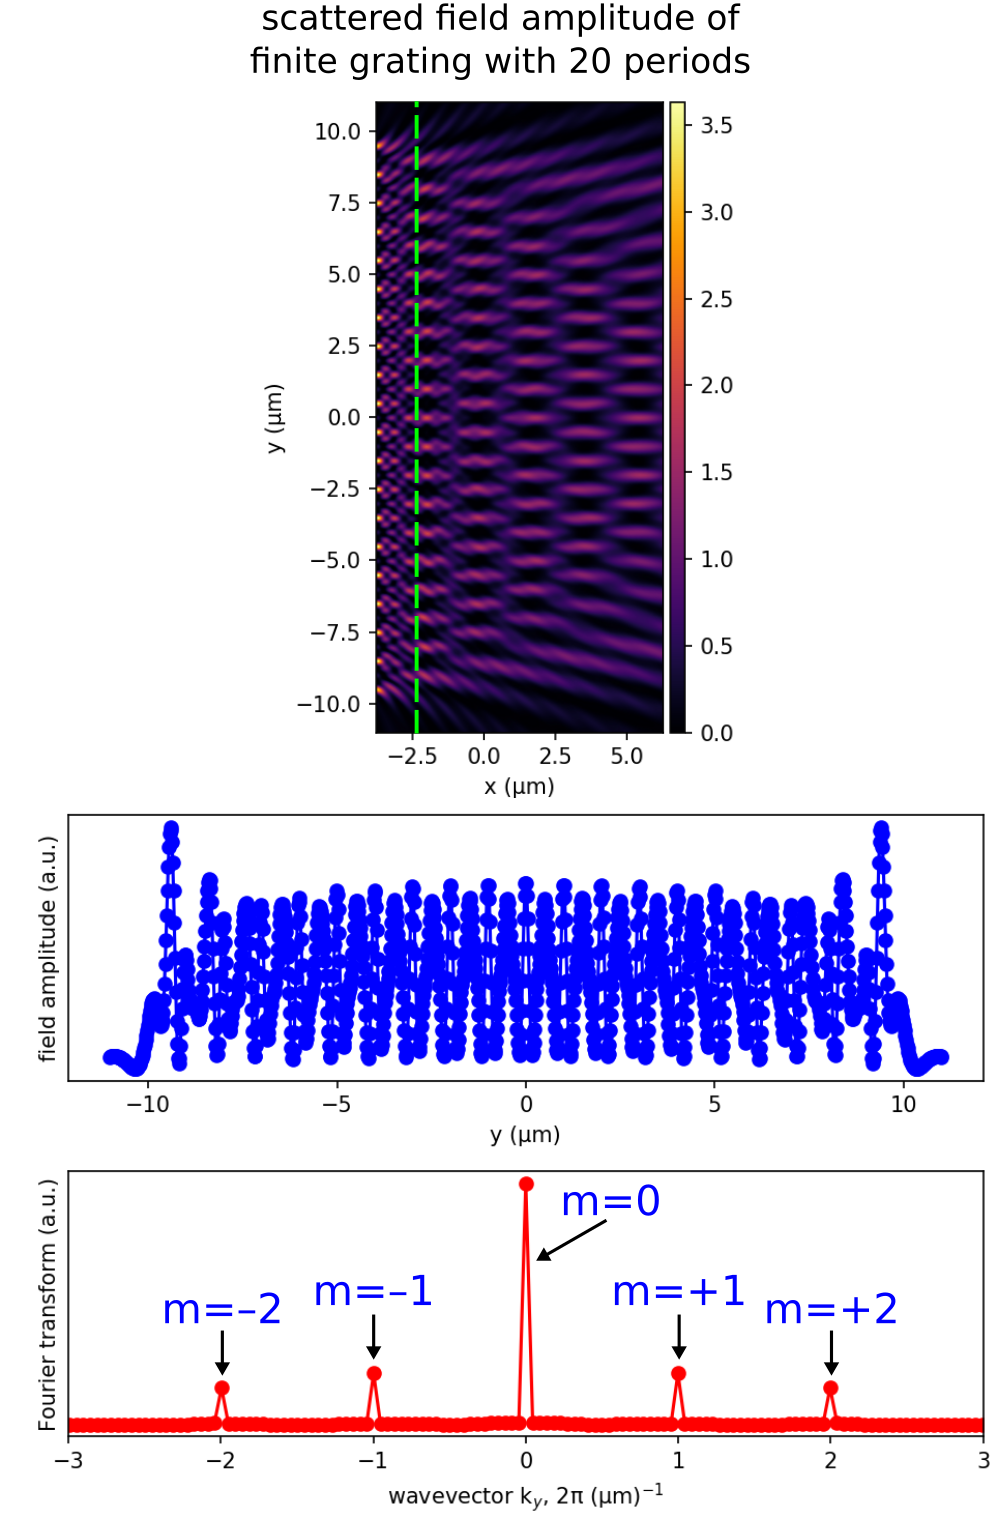
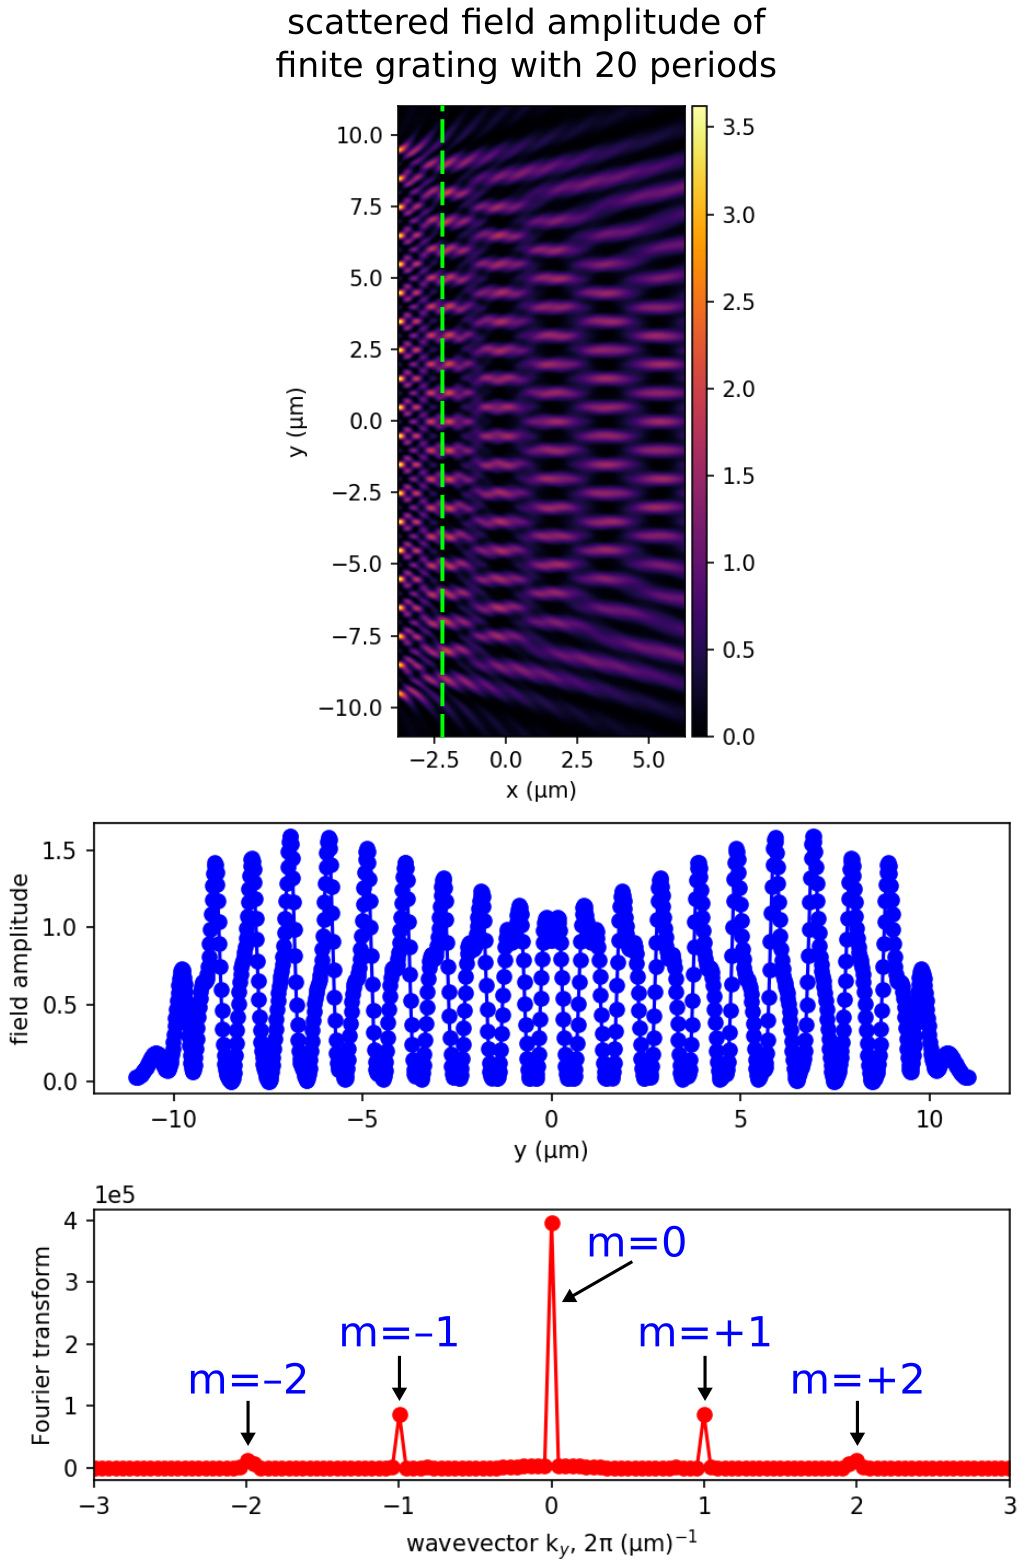
document 2πr factor in cylindrical integrals

Changed region(s): [[0.0, 0.0, 0.992, 1.0], [0.248, 0.2475, 0.31, 0.3094]]

diff --git a/python/examples/finite_grating.py b/python/examples/finite_grating.py
@@ -110,15 +110,14 @@ else:
 
     plt.subplot(2,1,1)
     plt.plot(y,scattered_amplitude,'bo-')
-    plt.gca().get_yaxis().set_ticks([])
     plt.xlabel("y (μm)")
-    plt.ylabel("field amplitude (a.u.)")
+    plt.ylabel("field amplitude")
 
     plt.subplot(2,1,2)
     plt.plot(ky,np.abs(FT_scattered_field)**2,'ro-')
-    plt.gca().get_yaxis().set_ticks([])
+    plt.gca().ticklabel_format(axis='y',style='sci',scilimits=(0,0))
     plt.xlabel(r'wavevector k$_y$, 2π (μm)$^{-1}$')
-    plt.ylabel("Fourier transform (a.u.)")
+    plt.ylabel("Fourier transform")
     plt.gca().set_xlim([-3, 3])
 
     plt.tight_layout(pad=1.0)

diff --git a/doc/docs/Scheme_Tutorials/Near_to_Far_Field_Spectra.md b/doc/docs/Scheme_Tutorials/Near_to_Far_Field_Spectra.md
@@ -592,7 +592,7 @@ For a single process, the far-field calculation in both runs takes roughly the s
 
 Finally, we can validate the results for the diffraction spectra of a finite grating via a different approach than computing the far fields: as the (spatial) Fourier transform of the scattered fields. This involves two simulations &mdash; one with the grating and the other with just a flat surface &mdash; and subtracting the Fourier-transformed fields at a given frequency ω from the two runs to obtain the scattered fields s(y). The Fourier transform of the scattered fields is then computed in post processing: a(k<sub>y</sub>) = ∫ s(y) exp(ik<sub>y</sub>y) dy, where |a(k<sub>y</sub>)|² is the amplitude of the corresponding Fourier component. For a grating with periodicity Λ, we should expect to see peaks in the diffraction spectra at k<sub>y</sub>=2πm/Λ for m=0, ±1, ±2, ... The total number of diffraction orders is determined by the wavelength as described in [Tutorials/Mode Decomposition/Transmittance Spectra for Planewave at Normal Incidence](Mode_Decomposition.md#transmittance-spectra-for-planewave-at-normal-incidence).
 
-The simulation setup is shown in the schematic below. The binary grating has Λ = 1 μm at a wavelength of 0.5 μm via a normally-incident planewave pulse (which must extend into the PML region). The grating structure is terminated with a flat-surface padding in order to give the scattered field space to decay at the edge of the cell.
+The simulation setup is shown in the schematic below. The binary grating has Λ = 1 μm at a wavelength of 0.5 μm via a normally-incident planewave pulse (which must [extend into the PML region in order to span the entire width of the cell](../Perfectly_Matched_Layer.md#planewave-sources-extending-into-pml)). The grating structure is terminated with a flat-surface padding in order to give the scattered field space to decay at the edge of the cell.
 
 <center>
 ![](../images/finite_grating_schematic.png)
@@ -634,11 +634,12 @@ The simulation script is in [examples/finite_grating.ctl](https://github.com/Nan
 (set! geometry-lattice (make lattice (size sx sy no-size)))
 
 (define src-pt (vector3 (+ (* -0.5 sx) dpml (* 0.5 dsub))))
-(set! sources (list (make source
-          (src (make gaussian-src (frequency fcen) (fwidth (* 0.2 fcen)) (is-integrated? true)))
-          (component Ez)
-          (center src-pt)
-          (size 0 sy))))
+(define pw-source (list (make source
+                          (src (make gaussian-src (frequency fcen) (fwidth (* 0.2 fcen)) (is-integrated? true)))
+                          (component Ez)
+                          (center src-pt)
+                          (size 0 sy))))
+(set! sources pw-source)
 
 (set! geometry (list (make block
                        (material glass)
@@ -662,11 +663,7 @@ The simulation script is in [examples/finite_grating.ctl](https://github.com/Nan
 
 (set! k-point (vector3 0))
 
-(set! sources (list (make source
-          (src (make gaussian-src (frequency fcen) (fwidth (* 0.2 fcen))))
-          (component Ez)
-          (center src-pt)
-          (size 0 (- sy (* 2 dpml))))))
+(set! sources pw-source)
 
 (set! geometry (list (make block
                        (material glass)
@@ -688,7 +685,7 @@ The simulation script is in [examples/finite_grating.ctl](https://github.com/Nan
 (output-dft grating-fields "grating")
 ```
 
-Results from the two HDF5 files are plotted using Matlab/Octave and shown for a finite grating with 5 and 20 periods.
+Results from the two HDF5 files are plotted using Matlab/Octave and shown for two finite gratings with 5 and 20 periods.
 
 ```matlab
 resolution = 50;
@@ -732,18 +729,16 @@ else
 
     subplot(2,1,1);
     plot(y,scattered_amplitude,'bo-');
-    axis("labelx");
     xlabel("y (um)");
-    ylabel("field amplitude (a.u.)");
+    ylabel("field amplitude");
 
     FT_scattered_amplitude = fftshift(fft(scattered_field));
     ky = [-Ny/2:(Ny/2-1)]*resolution/Ny;
     subplot(2,1,2);
     plot(ky,abs(FT_scattered_amplitude).^2,'ro-');
     axis([-3 3]);
-    axis("labelx");
     xlabel("wavevector k_y, 2π (um)^{-1}");
-    ylabel("Fourier transform (a.u.)");
+    ylabel("Fourier transform");
 endif
 ```
 

diff --git a/doc/docs/Python_User_Interface.md b/doc/docs/Python_User_Interface.md
@@ -1061,15 +1061,15 @@ Given a `direction` constant, and a `mp.Volume`, returns the flux (the integral 
 
 **`electric_energy_in_box(box=None, center=None, size=None)`**
 —
-Given a `mp.Volume`, returns the integral of the electric-field energy $\mathbf{E}^* \cdot \mathbf{D}/2$ in the given volume. If the volume has zero size along a dimension, a lower-dimensional integral is used. If the `center` and `size` arguments are provided instead of `box`, Meep will construct the appropriate volume for you.
+Given a `mp.Volume`, returns the integral of the electric-field energy $\mathbf{E}^* \cdot \mathbf{D}/2$ in the given volume. If the volume has zero size along a dimension, a lower-dimensional integral is used. If the `center` and `size` arguments are provided instead of `box`, Meep will construct the appropriate volume for you. Note: in [cylindrical coordinates](Cylindrical_Coordinates.md), the integral is multiplied by 2π$r$ where $r$ is the size of the cell in the radial direction.
 
 **`magnetic_energy_in_box(box=None, center=None, size=None)`**
 —
-Given a `mp.Volume`, returns the integral of the magnetic-field energy $\mathbf{H}^* \cdot \mathbf{B}/2$ in the given volume. If the volume has zero size along a dimension, a lower-dimensional integral is used. If the `center` and `size` arguments are provided instead of `box`, Meep will construct the appropriate volume for you.
+Given a `mp.Volume`, returns the integral of the magnetic-field energy $\mathbf{H}^* \cdot \mathbf{B}/2$ in the given volume. If the volume has zero size along a dimension, a lower-dimensional integral is used. If the `center` and `size` arguments are provided instead of `box`, Meep will construct the appropriate volume for you. Note: in [cylindrical coordinates](Cylindrical_Coordinates.md), the integral is multiplied by 2π$r$ where $r$ is the size of the cell in the radial direction.
 
 **`field_energy_in_box(box=None, center=None, size=None)`**
 —
-Given a `mp.Volume`, returns the integral of the electric- and magnetic-field energy $\mathbf{E}^* \cdot \mathbf{D}/2 + \mathbf{H}^* \cdot \mathbf{B}/2$ in the given volume. If the volume has zero size along a dimension, a lower-dimensional integral is used. If the `center` and `size` arguments are provided instead of `box`, Meep will construct the appropriate volume for you.
+Given a `mp.Volume`, returns the integral of the electric- and magnetic-field energy $\mathbf{E}^* \cdot \mathbf{D}/2 + \mathbf{H}^* \cdot \mathbf{B}/2$ in the given volume. If the volume has zero size along a dimension, a lower-dimensional integral is used. If the `center` and `size` arguments are provided instead of `box`, Meep will construct the appropriate volume for you. Note: in [cylindrical coordinates](Cylindrical_Coordinates.md), the integral is multiplied by 2π$r$ where $r$ is the size of the cell in the radial direction.
 
 **`modal_volume_in_box(box=None, center=None, size=None)`**
 —
@@ -1086,6 +1086,8 @@ One versatile feature is that you can supply an arbitrary function $f(\mathbf{x}
 Returns the integral of the complex-valued function `func` over the `Volume` specified by `where` (defaults to entire cell) for the `meep::fields` contained in the `Simulation` instance that calls this method. `func` is a function of position (a `Vector3`, its first argument) and zero or more field components specified by `cs`: a list of `component` constants. `func` can be real- or complex-valued. The volume can optionally be specified via the `center` and `size` arguments.
 
 If any dimension of `where` is zero, that dimension is not integrated over. In this way you can specify 1d, 2d, or 3d integrals.
+
+In [cylindrical coordinates](Cylindrical_Coordinates.md), the integral is multiplied by 2π$r$ where $r$ is the size of the cell in the radial direction.
 
 **`max_abs_field_function(cs, func, where=None, center=None, size=None)`**
 —

diff --git a/doc/docs/Scheme_User_Interface.md b/doc/docs/Scheme_User_Interface.md
@@ -878,15 +878,15 @@ Given a `direction` constant, and a `meep::volume*`, returns the flux (the integ
 
 **`(electric-energy-in-box box)`**
 —
-Given a `meep::volume*`, returns the integral of the electric-field energy $\mathbf{E}^* \cdot \mathbf{D}/2$ in the given volume. If the volume has zero size along a dimension, a lower-dimensional integral is used.
+Given a `meep::volume*`, returns the integral of the electric-field energy $\mathbf{E}^* \cdot \mathbf{D}/2$ in the given volume. If the volume has zero size along a dimension, a lower-dimensional integral is used. Note: in [cylindrical coordinates](Cylindrical_Coordinates.md), the integral is multiplied by 2π$r$ where $r$ is the size of the cell in the radial direction.
 
 **`(magnetic-energy-in-box box)`**
 —
-Given a `meep::volume*`, returns the integral of the magnetic-field energy $\mathbf{H}^* \cdot \mathbf{B}/2$ in the given volume. If the volume has zero size along a dimension, a lower-dimensional integral is used.
+Given a `meep::volume*`, returns the integral of the magnetic-field energy $\mathbf{H}^* \cdot \mathbf{B}/2$ in the given volume. If the volume has zero size along a dimension, a lower-dimensional integral is used. Note: in [cylindrical coordinates](Cylindrical_Coordinates.md), the integral is multiplied by 2π$r$ where $r$ is the size of the cell in the radial direction.
 
 **`(field-energy-in-box box)`**
 —
-Given a `meep::volume*`, returns the integral of the electric- and magnetic-field energy $\mathbf{E}^* \cdot \mathbf{D}/2 + \mathbf{H}^* \cdot \mathbf{B}/2$in the given volume. If the volume has zero size along a dimension, a lower-dimensional integral is used.
+Given a `meep::volume*`, returns the integral of the electric- and magnetic-field energy $\mathbf{E}^* \cdot \mathbf{D}/2 + \mathbf{H}^* \cdot \mathbf{B}/2$in the given volume. If the volume has zero size along a dimension, a lower-dimensional integral is used. Note: in [cylindrical coordinates](Cylindrical_Coordinates.md), the integral is multiplied by 2π$r$ where $r$ is the size of the cell in the radial direction.
 
 Note that if you are at a fixed frequency and you use complex fields (via Bloch-periodic boundary conditions or `fields-complex?=true`), then one half of the flux or energy integrals above corresponds to the time average of the flux or energy for a simulation with real fields.
 
@@ -899,6 +899,8 @@ One versatile feature is that you can supply an arbitrary function $f(\mathbf{x}
 Returns the integral of the complex-valued function `func` over the `meep::volume` specified by `where` (defaults to entire cell) for the `meep::fields` specified by `fields-var` (defaults to `fields`). `func` is a function of position (a `vector3`, its first argument) and zero or more field components specified by `cs`: a list of `component` constants. `func` can be real- or complex-valued.
 
 If any dimension of `where` is zero, that dimension is not integrated over. In this way you can specify 1d, 2d, or 3d integrals.
+
+In [cylindrical coordinates](Cylindrical_Coordinates.md), the integral is multiplied by 2π$r$ where $r$ is the size of the cell in the radial direction.
 
 **`(max-abs-field-function cs func [where] [fields-var])`**
 —

diff --git a/doc/docs/Python_Tutorials/Near_to_Far_Field_Spectra.md b/doc/docs/Python_Tutorials/Near_to_Far_Field_Spectra.md
@@ -539,7 +539,7 @@ For a single process, the far-field calculation in both runs takes roughly the s
 
 Finally, we can validate the results for the diffraction spectra of a finite grating via a different approach than computing the far fields: as the (spatial) Fourier transform of the scattered fields. This involves two simulations &mdash; one with the grating and the other with just a flat surface &mdash; and subtracting the Fourier-transformed fields at a given frequency ω from the two runs to obtain the scattered fields s(y). The Fourier transform of the scattered fields is then computed in post processing: a(k<sub>y</sub>) = ∫ s(y) exp(ik<sub>y</sub>y) dy, where |a(k<sub>y</sub>)|² is the amplitude of the corresponding Fourier component. For a grating with periodicity Λ, we should expect to see peaks in the diffraction spectra at k<sub>y</sub>=2πm/Λ for m=0, ±1, ±2, ... The total number of diffraction orders is determined by the wavelength as described in [Tutorials/Mode Decomposition/Transmittance Spectra for Planewave at Normal Incidence](Mode_Decomposition.md#transmittance-spectra-for-planewave-at-normal-incidence).
 
-The simulation setup is shown in the schematic below. The binary grating has Λ = 1 μm at a wavelength of 0.5 μm via a normally-incident planewave pulse (which must extend into the PML region). The grating structure is terminated with a flat-surface padding in order to give the scattered field space to decay at the edge of the cell.
+The simulation setup is shown in the schematic below. The binary grating has Λ = 1 μm at a wavelength of 0.5 μm via a normally-incident planewave pulse (which must [extend into the PML region in order to span the entire width of the cell](../Perfectly_Matched_Layer.md#planewave-sources-extending-into-pml)). The grating structure is terminated with a flat-surface padding in order to give the scattered field space to decay at the edge of the cell.
 
 <center>
 ![](../images/finite_grating_schematic.png)
@@ -660,22 +660,21 @@ else:
 
     plt.subplot(2,1,1)
     plt.plot(y,scattered_amplitude,'bo-')
-    plt.gca().get_yaxis().set_ticks([])
     plt.xlabel("y (μm)")
-    plt.ylabel("field amplitude (a.u.)")
+    plt.ylabel("field amplitude")
 
     plt.subplot(2,1,2)
     plt.plot(ky,np.abs(FT_scattered_field)**2,'ro-')
-    plt.gca().get_yaxis().set_ticks([])
+    plt.gca().ticklabel_format(axis='y',style='sci',scilimits=(0,0))
     plt.xlabel(r'wavevector k$_y$, 2π (μm)$^{-1}$')
-    plt.ylabel("Fourier transform (a.u.)")
+    plt.ylabel("Fourier transform")
     plt.gca().set_xlim([-3, 3])
 
     plt.tight_layout(pad=1.0)
     plt.show()
 ```
 
-Results are shown for a finite grating with 5 and 20 periods.
+Results are shown for two finite gratings with 5 and 20 periods.
 
 <center>
 ![](../images/finite_grating_nperiods5.png)

diff --git a/doc/docs/Field_Functions.md b/doc/docs/Field_Functions.md
@@ -4,7 +4,7 @@
 
 As described in [Python User Interface](Python_User_Interface.md), Meep provides several routines to integrate, analyze, and output arbitrary user-specified functions of the field components. See the functions whose names end with `_field_function`. This facility, while powerful, requires a bit more programming than most Meep usage, and is best illustrated by a few examples.
 
-Note: field functions can be applied to time- *as well as* [frequency-domain](Python_User_Interface.md#frequency-domain-solver) fields.
+Note: field functions can be applied to time-domain *and* [frequency-domain](Python_User_Interface.md#frequency-domain-solver) fields.
 
 Every field-function that can be passed to these routines is of the form *f*(**r**,components...), where **r** is a position vector and "components..." are zero or more field components that the function depends on. The set of desired components is user-specified. As an example, suppose we are interested in the arbitrary function:
 
